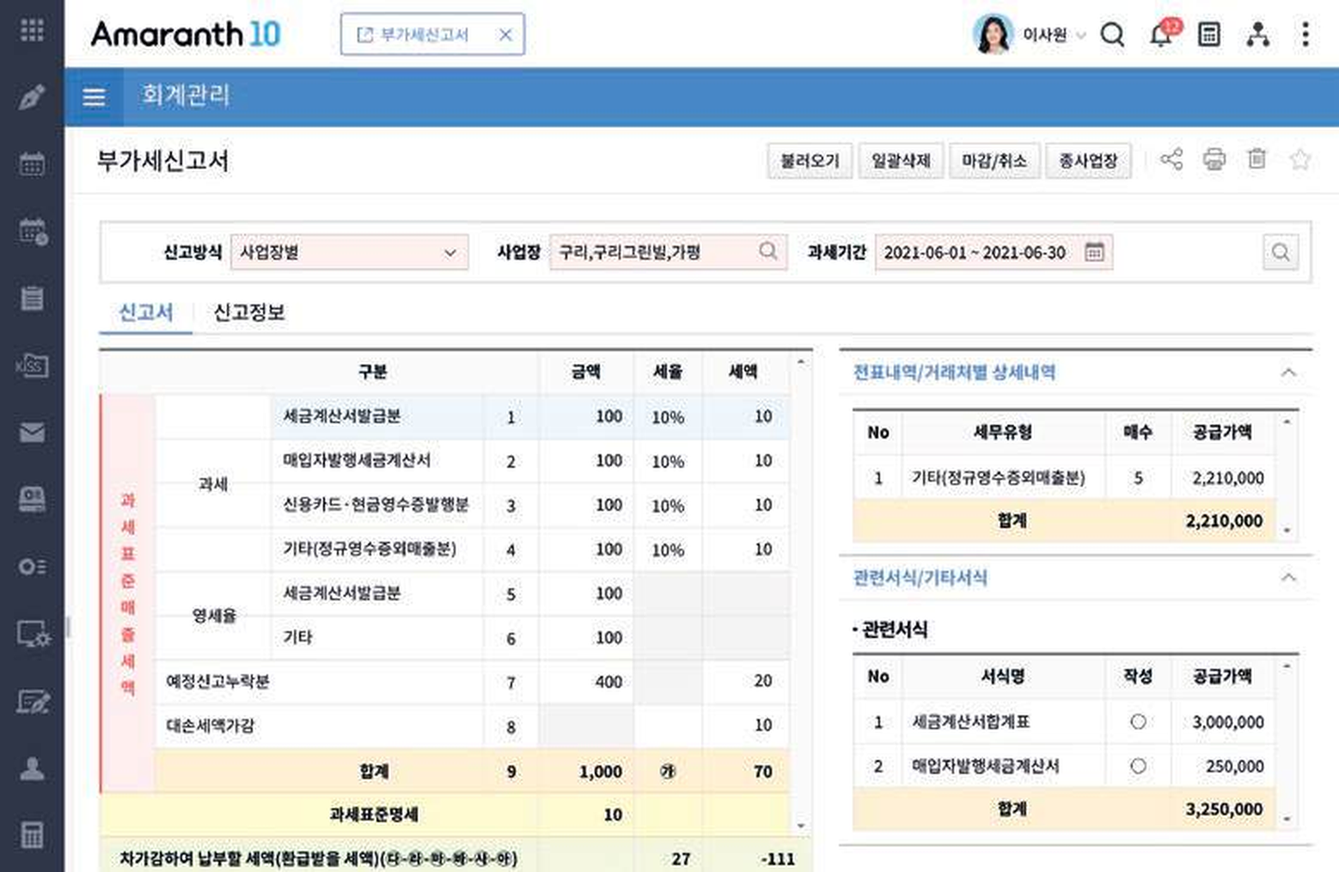
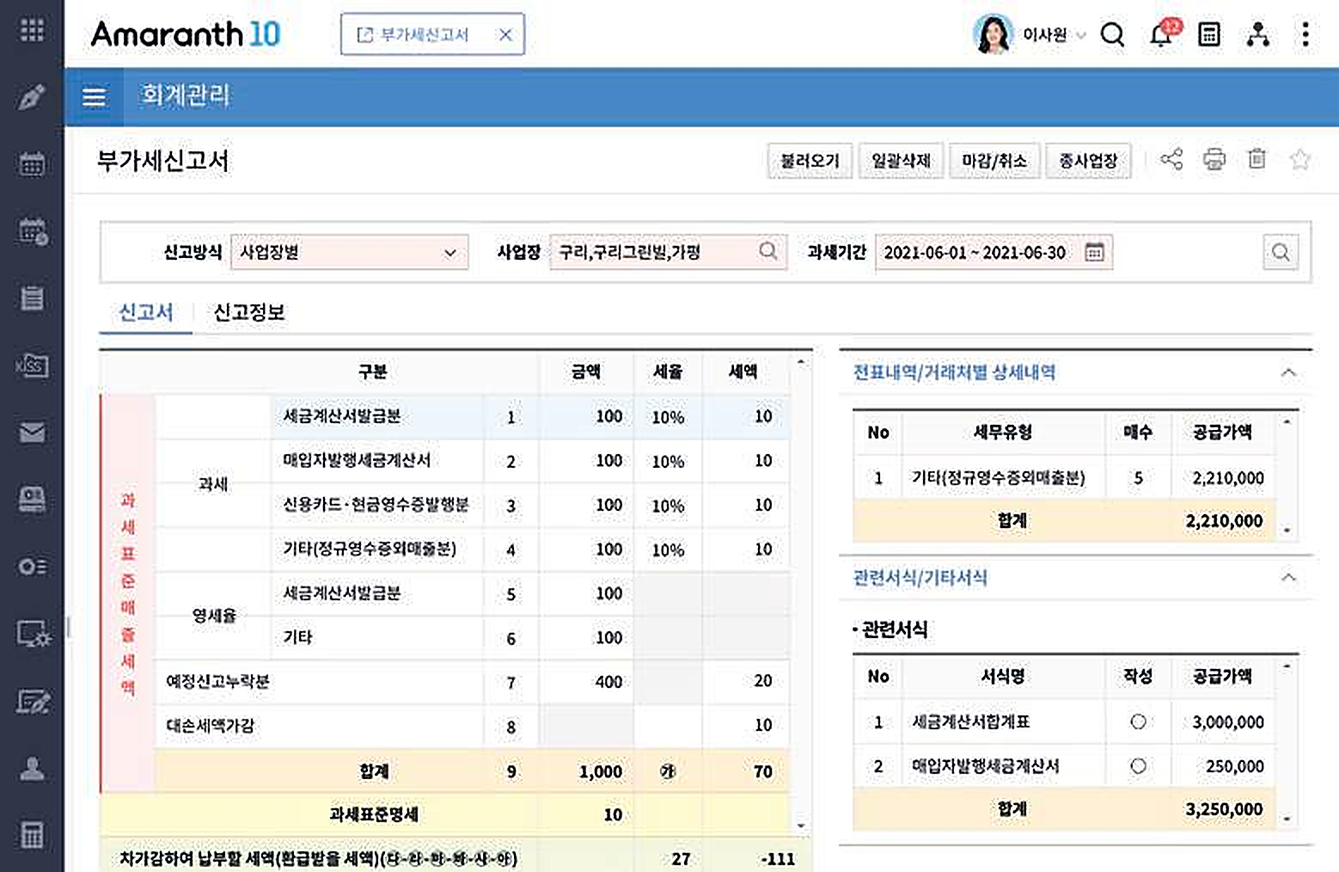
Sharpen the brochure product screens
Adds a light unsharp mask after the 2x Lanczos enlargement and versions the image URLs
so browsers pick up the new files. Real-ESRGAN was tried and rejected because it
reshaped Korean glyphs.

Claude-Session: https://claude.ai/code/session_01SPawHb8dbXAtWqwsG92Z1g

diff --git a/subpages/product/nonprofit/intro.html b/subpages/product/nonprofit/intro.html
@@ -88,7 +88,7 @@
 						진행할 수 있습니다.
 					</p>
 				<div class="tag-row sb-area-tags" aria-label="회계관리 관련 키워드"><span class="tag">#지출결의</span><span class="tag">#결산</span><span class="tag">#부가가치세관리</span><span class="tag">#금융서비스연동(CMS)</span><span class="tag">#그룹재무제표</span><span class="tag">#자동전표처리</span><span class="tag">#반제처리</span><span class="tag">#자금수지계획</span><span class="tag">#법인세관리</span><span class="tag">#자금일보</span></div></div>
-				<div class="img sb-feature-visual"><figure class="sb-unframed-screen sb-clarity-restored" data-screen-presentation="unframed" style="--sb-screen-ratio:1.536789;--sb-preview-ratio:1.536789;--sb-preview-height:516px;--sb-preview-padding:0px" data-screen-content="complete" data-native-screen="source-041" data-native-review-id="70" data-quality-screen="brochure"><a class="sb-screen-zoom" href="../../../assets/subpages/brochure-screens/automatic-journals.png" aria-label="Amaranth 10 자동전표처리 실제 제품 화면 크게 보기"><img class="sb-flat-screen" loading="lazy" src="../../../assets/subpages/brochure-screens/automatic-journals.png" alt="Amaranth 10 자동전표처리 실제 제품 화면" width="1838" height="1196" data-quality-id="source-041"></a></figure></div>
+				<div class="img sb-feature-visual"><figure class="sb-unframed-screen sb-clarity-restored" data-screen-presentation="unframed" style="--sb-screen-ratio:1.536789;--sb-preview-ratio:1.536789;--sb-preview-height:516px;--sb-preview-padding:0px" data-screen-content="complete" data-native-screen="source-041" data-native-review-id="70" data-quality-screen="brochure"><a class="sb-screen-zoom" href="../../../assets/subpages/brochure-screens/automatic-journals.png?v=2" aria-label="Amaranth 10 자동전표처리 실제 제품 화면 크게 보기"><img class="sb-flat-screen" loading="lazy" src="../../../assets/subpages/brochure-screens/automatic-journals.png?v=2" alt="Amaranth 10 자동전표처리 실제 제품 화면" width="1838" height="1196" data-quality-id="source-041"></a></figure></div>
 			</div>
 			<div class="hr02 sb-feature sb-design-row sb-centered-feature sb-zigzag-feature" data-layout="visual-left" data-screen-layout="visual-left">
 				<div class="cont_txt sb-feature-copy">
@@ -509,7 +509,7 @@
                     </p>
                     <div class="tag-row sb-area-tags" aria-label="자동전표처리 관련 키워드"><span class="tag">#자동전표처리</span></div><a href="https://youtu.be/8vVOLh3XUzg?si=iY8KAsuRsYNz-_Nw" class="youtb_btn cta sb-product-cta" data-fancybox="" target="_blank" rel="noopener noreferrer">영상으로 확인하기 </a>
                 </div>
-                <div class="img sb-feature-visual"><figure class="sb-unframed-screen sb-clarity-restored" data-screen-presentation="unframed" style="--sb-screen-ratio:1.536789;--sb-preview-ratio:1.536789;--sb-preview-height:516px;--sb-preview-padding:0px" data-screen-content="complete" data-native-screen="source-041" data-native-review-id="86" data-quality-screen="brochure"><a class="sb-screen-zoom" href="../../../assets/subpages/brochure-screens/automatic-journals.png" aria-label="Amaranth 10 자동전표처리 실제 제품 화면 크게 보기"><img class="sb-flat-screen" loading="lazy" src="../../../assets/subpages/brochure-screens/automatic-journals.png" alt="Amaranth 10 자동전표처리 실제 제품 화면" width="1838" height="1196" data-quality-id="source-041"></a></figure></div>
+                <div class="img sb-feature-visual"><figure class="sb-unframed-screen sb-clarity-restored" data-screen-presentation="unframed" style="--sb-screen-ratio:1.536789;--sb-preview-ratio:1.536789;--sb-preview-height:516px;--sb-preview-padding:0px" data-screen-content="complete" data-native-screen="source-041" data-native-review-id="86" data-quality-screen="brochure"><a class="sb-screen-zoom" href="../../../assets/subpages/brochure-screens/automatic-journals.png?v=2" aria-label="Amaranth 10 자동전표처리 실제 제품 화면 크게 보기"><img class="sb-flat-screen" loading="lazy" src="../../../assets/subpages/brochure-screens/automatic-journals.png?v=2" alt="Amaranth 10 자동전표처리 실제 제품 화면" width="1838" height="1196" data-quality-id="source-041"></a></figure></div>
             </div>
             <div class="overview02 sb-feature sb-design-row sb-centered-feature sb-zigzag-feature" data-layout="visual-left" data-screen-layout="visual-left">
                 <div class="cont_txt sb-feature-copy">
@@ -591,7 +591,7 @@
                     </p>
                     <div class="tag-row sb-area-tags" aria-label="자금관리 관련 키워드"><span class="tag">#자금수지계획</span><span class="tag">#자금일보</span></div><a href="https://youtu.be/lMcinptekAo?si=e_etyYmCkUZ8QCJ4" class="youtb_btn cta sb-product-cta" data-fancybox="" target="_blank" rel="noopener noreferrer">영상으로 확인하기 </a>
                 </div>
-                <div class="img sb-feature-visual"><figure class="sb-unframed-screen" data-screen-presentation="unframed" style="--sb-screen-ratio:1.535865;--sb-preview-ratio:1.535865;--sb-preview-height:516px;--sb-preview-padding:0px" data-screen-content="complete" data-native-screen="source-076" data-native-review-id="91" data-quality-screen="brochure"><a class="sb-screen-zoom" href="../../../assets/subpages/brochure-screens/funds.png" aria-label="Amaranth 10 자금관리 실제 제품 화면 크게 보기"><img class="sb-flat-screen" loading="lazy" src="../../../assets/subpages/brochure-screens/funds.png" alt="Amaranth 10 자금관리 실제 제품 화면" width="1456" height="948" data-quality-id="source-076"></a></figure></div>
+                <div class="img sb-feature-visual"><figure class="sb-unframed-screen" data-screen-presentation="unframed" style="--sb-screen-ratio:1.535865;--sb-preview-ratio:1.535865;--sb-preview-height:516px;--sb-preview-padding:0px" data-screen-content="complete" data-native-screen="source-076" data-native-review-id="91" data-quality-screen="brochure"><a class="sb-screen-zoom" href="../../../assets/subpages/brochure-screens/funds.png?v=2" aria-label="Amaranth 10 자금관리 실제 제품 화면 크게 보기"><img class="sb-flat-screen" loading="lazy" src="../../../assets/subpages/brochure-screens/funds.png?v=2" alt="Amaranth 10 자금관리 실제 제품 화면" width="1456" height="948" data-quality-id="source-076"></a></figure></div>
             </div>
             <div class="overview07 sb-feature sb-design-row sb-centered-feature sb-zigzag-feature" data-layout="visual-right" data-screen-layout="visual-right">
                 <div class="cont_txt sb-feature-copy">
@@ -624,7 +624,7 @@
                     </p>
                     <div class="tag-row sb-area-tags" aria-label="세무신고자동화 관련 키워드"><span class="tag">#부가가치세관리</span><span class="tag">#법인세관리</span></div><a href="https://youtu.be/KDGEZgJHkpw?si=p0U9GLuG2FRY7U79" class="youtb_btn cta sb-product-cta" data-fancybox="" target="_blank" rel="noopener noreferrer">영상으로 확인하기 </a>
                 </div>
-                <div class="img sb-feature-visual"><figure class="sb-unframed-screen" data-screen-presentation="unframed" style="--sb-screen-ratio:1.536489;--sb-preview-ratio:1.536489;--sb-preview-height:516px;--sb-preview-padding:0px" data-screen-content="complete" data-native-screen="source-079" data-native-review-id="93" data-quality-screen="brochure"><a class="sb-screen-zoom" href="../../../assets/subpages/brochure-screens/tax-filing.png" aria-label="Amaranth 10 세무신고자동화 제품 화면 크게 보기"><img class="sb-flat-screen" loading="lazy" src="../../../assets/subpages/brochure-screens/tax-filing.png" alt="Amaranth 10 세무신고자동화 제품 화면" width="1558" height="1014" data-quality-id="source-079"></a></figure></div>
+                <div class="img sb-feature-visual"><figure class="sb-unframed-screen" data-screen-presentation="unframed" style="--sb-screen-ratio:1.536489;--sb-preview-ratio:1.536489;--sb-preview-height:516px;--sb-preview-padding:0px" data-screen-content="complete" data-native-screen="source-079" data-native-review-id="93" data-quality-screen="brochure"><a class="sb-screen-zoom" href="../../../assets/subpages/brochure-screens/tax-filing.png?v=2" aria-label="Amaranth 10 세무신고자동화 제품 화면 크게 보기"><img class="sb-flat-screen" loading="lazy" src="../../../assets/subpages/brochure-screens/tax-filing.png?v=2" alt="Amaranth 10 세무신고자동화 제품 화면" width="1558" height="1014" data-quality-id="source-079"></a></figure></div>
             </div>
             <div class="overview009 sb-feature sb-design-row sb-centered-feature sb-zigzag-feature" data-layout="visual-right" data-screen-layout="visual-right">
                 <div class="cont_txt sb-feature-copy">
@@ -687,7 +687,7 @@
                     </p>
                     <a href="https://youtu.be/6J2EmAe2nEQ?si=Lg2hNhujlv5vkZ82" class="youtb_btn cta sb-product-cta" data-fancybox="" target="_blank" rel="noopener noreferrer">영상으로 확인하기 </a>
                 </div>
-                <div class="img sb-feature-visual"><figure class="sb-unframed-screen sb-clarity-restored" data-screen-presentation="unframed" style="--sb-screen-ratio:1.536415;--sb-preview-ratio:1.536415;--sb-preview-height:516px;--sb-preview-padding:0px" data-screen-content="complete" data-native-screen="source-084" data-native-review-id="97" data-quality-screen="brochure"><a class="sb-screen-zoom" href="../../../assets/subpages/brochure-screens/annual-leave.png" aria-label="Amaranth 10 연차관리 실제 제품 화면 크게 보기"><img class="sb-flat-screen" loading="lazy" src="../../../assets/subpages/brochure-screens/annual-leave.png" alt="Amaranth 10 연차관리 실제 제품 화면" width="2194" height="1428" data-quality-id="source-084"></a></figure></div>
+                <div class="img sb-feature-visual"><figure class="sb-unframed-screen sb-clarity-restored" data-screen-presentation="unframed" style="--sb-screen-ratio:1.536415;--sb-preview-ratio:1.536415;--sb-preview-height:516px;--sb-preview-padding:0px" data-screen-content="complete" data-native-screen="source-084" data-native-review-id="97" data-quality-screen="brochure"><a class="sb-screen-zoom" href="../../../assets/subpages/brochure-screens/annual-leave.png?v=2" aria-label="Amaranth 10 연차관리 실제 제품 화면 크게 보기"><img class="sb-flat-screen" loading="lazy" src="../../../assets/subpages/brochure-screens/annual-leave.png?v=2" alt="Amaranth 10 연차관리 실제 제품 화면" width="2194" height="1428" data-quality-id="source-084"></a></figure></div>
             </div>
             <div class="hr04 sb-feature sb-design-row sb-centered-feature sb-zigzag-feature" data-layout="visual-right" data-screen-layout="visual-left">
                 <div class="cont_txt sb-feature-copy">
@@ -703,7 +703,7 @@
                     </p>
                     <a href="https://youtu.be/XEPKYA6YHpk?si=0drrsWrU1AXwEn0H" class="youtb_btn cta sb-product-cta" data-fancybox="" target="_blank" rel="noopener noreferrer">영상으로 확인하기 </a>
                 </div>
-                <div class="img sb-feature-visual"><figure class="sb-unframed-screen sb-clarity-restored" data-screen-presentation="unframed" style="--sb-screen-ratio:1.535019;--sb-preview-ratio:1.535019;--sb-preview-height:516px;--sb-preview-padding:0px" data-screen-content="complete" data-native-screen="source-086" data-native-review-id="98" data-quality-screen="brochure"><a class="sb-screen-zoom" href="../../../assets/subpages/brochure-screens/payroll.png" aria-label="Amaranth 10 급여관리 실제 제품 화면 크게 보기"><img class="sb-flat-screen" loading="lazy" src="../../../assets/subpages/brochure-screens/payroll.png" alt="Amaranth 10 급여관리 실제 제품 화면" width="1578" height="1028" data-quality-id="source-086"></a></figure></div>
+                <div class="img sb-feature-visual"><figure class="sb-unframed-screen sb-clarity-restored" data-screen-presentation="unframed" style="--sb-screen-ratio:1.535019;--sb-preview-ratio:1.535019;--sb-preview-height:516px;--sb-preview-padding:0px" data-screen-content="complete" data-native-screen="source-086" data-native-review-id="98" data-quality-screen="brochure"><a class="sb-screen-zoom" href="../../../assets/subpages/brochure-screens/payroll.png?v=2" aria-label="Amaranth 10 급여관리 실제 제품 화면 크게 보기"><img class="sb-flat-screen" loading="lazy" src="../../../assets/subpages/brochure-screens/payroll.png?v=2" alt="Amaranth 10 급여관리 실제 제품 화면" width="1578" height="1028" data-quality-id="source-086"></a></figure></div>
             </div>
             <div class="hr05 sb-feature sb-design-row sb-centered-feature sb-zigzag-feature" data-layout="visual-left" data-screen-layout="visual-right">
                 <div class="cont_txt sb-feature-copy">

diff --git a/subpages/product/amaranth10/lm.html b/subpages/product/amaranth10/lm.html
@@ -108,7 +108,7 @@
                         연계해 효율적인 업무 처리 기능을 제공합니다.
                     </p>
                 </div>
-                <div class="img sb-feature-visual"><figure class="sb-unframed-screen" data-screen-presentation="unframed" style="--sb-screen-ratio:1.619469;--sb-preview-ratio:1.619469;--sb-preview-height:516px;--sb-preview-padding:0px" data-screen-content="complete" data-native-screen="source-103" data-native-review-id="121" data-quality-screen="brochure"><a class="sb-screen-zoom" href="../../../assets/subpages/brochure-screens/mps.png" aria-label="Amaranth 10 주생산계획등록(MPS) 실제 제품 화면 크게 보기"><img class="sb-flat-screen" loading="lazy" src="../../../assets/subpages/brochure-screens/mps.png" alt="Amaranth 10 주생산계획등록(MPS) 실제 제품 화면" width="1464" height="904" data-quality-id="source-103"></a></figure></div>
+                <div class="img sb-feature-visual"><figure class="sb-unframed-screen" data-screen-presentation="unframed" style="--sb-screen-ratio:1.619469;--sb-preview-ratio:1.619469;--sb-preview-height:516px;--sb-preview-padding:0px" data-screen-content="complete" data-native-screen="source-103" data-native-review-id="121" data-quality-screen="brochure"><a class="sb-screen-zoom" href="../../../assets/subpages/brochure-screens/mps.png?v=2" aria-label="Amaranth 10 주생산계획등록(MPS) 실제 제품 화면 크게 보기"><img class="sb-flat-screen" loading="lazy" src="../../../assets/subpages/brochure-screens/mps.png?v=2" alt="Amaranth 10 주생산계획등록(MPS) 실제 제품 화면" width="1464" height="904" data-quality-id="source-103"></a></figure></div>
             </div>
             <div class="lm07 sb-feature sb-design-row sb-centered-feature sb-zigzag-feature" data-layout="visual-right" data-screen-layout="visual-right">
                 <div class="cont_txt sb-feature-copy">
@@ -160,7 +160,7 @@
                         환율 환종 관리 기능을 제공합니다.
                     </p>
                 </div>
-                <div class="img sb-feature-visual"><figure class="sb-unframed-screen" data-screen-presentation="unframed" style="--sb-screen-ratio:1.622642;--sb-preview-ratio:1.622642;--sb-preview-height:516px;--sb-preview-padding:0px" data-screen-content="complete" data-native-screen="source-109" data-native-review-id="124" data-quality-screen="brochure"><a class="sb-screen-zoom" href="../../../assets/subpages/brochure-screens/domestic-overseas-sales.png" aria-label="Amaranth 10 국내/외 영업통합관리 실제 제품 화면 크게 보기"><img class="sb-flat-screen" loading="lazy" src="../../../assets/subpages/brochure-screens/domestic-overseas-sales.png" alt="Amaranth 10 국내/외 영업통합관리 실제 제품 화면" width="1548" height="954" data-quality-id="source-109"></a></figure></div>
+                <div class="img sb-feature-visual"><figure class="sb-unframed-screen" data-screen-presentation="unframed" style="--sb-screen-ratio:1.622642;--sb-preview-ratio:1.622642;--sb-preview-height:516px;--sb-preview-padding:0px" data-screen-content="complete" data-native-screen="source-109" data-native-review-id="124" data-quality-screen="brochure"><a class="sb-screen-zoom" href="../../../assets/subpages/brochure-screens/domestic-overseas-sales.png?v=2" aria-label="Amaranth 10 국내/외 영업통합관리 실제 제품 화면 크게 보기"><img class="sb-flat-screen" loading="lazy" src="../../../assets/subpages/brochure-screens/domestic-overseas-sales.png?v=2" alt="Amaranth 10 국내/외 영업통합관리 실제 제품 화면" width="1548" height="954" data-quality-id="source-109"></a></figure></div>
             </div>
         </div>
 	</div></main><footer><div class="footer-top"><div><a class="footer-brand" href="../../../index.html"><img src="../../../assets/ax-logo.png" alt="AX and More"><img src="../../../assets/logo.png" alt="DOUZONE 아이원소프트뱅크"></a><p>ERP · 그룹웨어 · 시스템 연동 · 맞춤 개발까지<br>비즈니스 환경에 최적화된 솔루션을 제공합니다.</p></div><div class="socials"><a href="https://cafe.naver.com/ionesoftbank" target="_blank" rel="noopener noreferrer"><img src="../../../assets/social-cafe.png" alt="카페"></a><a href="https://www.instagram.com/ione130501" target="_blank" rel="noopener noreferrer"><img src="../../../assets/social-instagram.png" alt="인스타그램"></a><a href="https://blog.naver.com/zhogksgjqm" target="_blank" rel="noopener noreferrer"><img src="../../../assets/social-blog.png" alt="블로그"></a><a href="http://pf.kakao.com/_xnFVzK" target="_blank" rel="noopener noreferrer"><img src="../../../assets/social-kakao.png" alt="카카오톡"></a><a href="https://youtube.com/@IONEsoftBK_official" target="_blank" rel="noopener noreferrer"><img src="../../../assets/social-youtube.png" alt="유튜브"></a></div></div><nav><button type="button" data-modal="privacy">개인정보 처리방침</button><button type="button" data-modal="terms">이용약관</button><a href="../../../subpages/company/location.html">오시는 길</a></nav><p>아이원소프트뱅크㈜ 대표 : 황명희 · 사업자등록번호 : 113-86-70956 · 통신판매신고번호 : 2017-서울구로-0617<br>주소 : 서울특별시 구로구 디지털로 285 에이스트윈타워 1차 405호<br>구매상담문의 : 1877-0256 · 고객센터 : 1877-1859 · iCUBE / G20 : 1877-0840 · 블루멤버십 : 1600-4208 · 테스트 계정 신청 : 070-4497-3388<br><br>COPYRIGHT © 2026 아이원소프트뱅크㈜. All rights reserved.</p></footer><section class="legal-modal" id="privacy-modal" aria-hidden="true" role="dialog" aria-modal="true" aria-labelledby="privacy-title"><div class="legal-dialog"><button class="modal-close" type="button" aria-label="닫기">×</button><h2 id="privacy-title">개인정보 처리방침</h2><div class="legal-scroll">문서를 불러오는 중입니다.</div></div></section><section class="legal-modal" id="terms-modal" aria-hidden="true" role="dialog" aria-modal="true" aria-labelledby="terms-title"><div class="legal-dialog"><button class="modal-close" type="button" aria-label="닫기">×</button><h2 id="terms-title">이용약관</h2><div class="legal-scroll">문서를 불러오는 중입니다.</div></div></section><dialog class="sb-preview-dialog"><p>공개 페이지 기반 미리보기입니다. 이 기능은 기존 사이트에서 이용할 수 있습니다.</p><a href="https://www.duzon119.co.kr/product/amaranth10/lm.asp">기존 페이지 열기 ↗</a><button type="button">닫기</button></dialog></div><script src="../../../app.js?v=20261023-2" defer=""></script></body></html>

diff --git a/subpages/product/amaranth10/overview.html b/subpages/product/amaranth10/overview.html
@@ -29,7 +29,7 @@
                     </p>
                     <div class="tag-row sb-area-tags" aria-label="자동전표처리 관련 키워드"><span class="tag">#자동전표처리</span></div><a href="https://youtu.be/8vVOLh3XUzg?si=iY8KAsuRsYNz-_Nw" class="youtb_btn cta sb-product-cta" data-fancybox="" target="_blank" rel="noopener noreferrer">영상으로 확인하기 </a>
                 </div>
-                <div class="img sb-feature-visual"><figure class="sb-unframed-screen sb-clarity-restored" data-screen-presentation="unframed" style="--sb-screen-ratio:1.536789;--sb-preview-ratio:1.536789;--sb-preview-height:516px;--sb-preview-padding:0px" data-screen-content="complete" data-native-screen="source-041" data-native-review-id="107" data-quality-screen="brochure"><a class="sb-screen-zoom" href="../../../assets/subpages/brochure-screens/automatic-journals.png" aria-label="Amaranth 10 자동전표처리 실제 제품 화면 크게 보기"><img class="sb-flat-screen" loading="lazy" src="../../../assets/subpages/brochure-screens/automatic-journals.png" alt="Amaranth 10 자동전표처리 실제 제품 화면" width="1838" height="1196" data-quality-id="source-041"></a></figure></div>
+                <div class="img sb-feature-visual"><figure class="sb-unframed-screen sb-clarity-restored" data-screen-presentation="unframed" style="--sb-screen-ratio:1.536789;--sb-preview-ratio:1.536789;--sb-preview-height:516px;--sb-preview-padding:0px" data-screen-content="complete" data-native-screen="source-041" data-native-review-id="107" data-quality-screen="brochure"><a class="sb-screen-zoom" href="../../../assets/subpages/brochure-screens/automatic-journals.png?v=2" aria-label="Amaranth 10 자동전표처리 실제 제품 화면 크게 보기"><img class="sb-flat-screen" loading="lazy" src="../../../assets/subpages/brochure-screens/automatic-journals.png?v=2" alt="Amaranth 10 자동전표처리 실제 제품 화면" width="1838" height="1196" data-quality-id="source-041"></a></figure></div>
             </div>
             <div class="overview02 sb-feature sb-design-row sb-centered-feature sb-zigzag-feature" data-layout="visual-left" data-screen-layout="visual-left">
                 <div class="cont_txt sb-feature-copy">
@@ -111,7 +111,7 @@
                     </p>
                     <div class="tag-row sb-area-tags" aria-label="자금관리 관련 키워드"><span class="tag">#자금수지계획</span><span class="tag">#자금일보</span></div><a href="https://youtu.be/lMcinptekAo?si=e_etyYmCkUZ8QCJ4" class="youtb_btn cta sb-product-cta" data-fancybox="" target="_blank" rel="noopener noreferrer">영상으로 확인하기 </a>
                 </div>
-                <div class="img sb-feature-visual"><figure class="sb-unframed-screen" data-screen-presentation="unframed" style="--sb-screen-ratio:1.535865;--sb-preview-ratio:1.535865;--sb-preview-height:516px;--sb-preview-padding:0px" data-screen-content="complete" data-native-screen="source-076" data-native-review-id="112" data-quality-screen="brochure"><a class="sb-screen-zoom" href="../../../assets/subpages/brochure-screens/funds.png" aria-label="Amaranth 10 자금관리 실제 제품 화면 크게 보기"><img class="sb-flat-screen" loading="lazy" src="../../../assets/subpages/brochure-screens/funds.png" alt="Amaranth 10 자금관리 실제 제품 화면" width="1456" height="948" data-quality-id="source-076"></a></figure></div>
+                <div class="img sb-feature-visual"><figure class="sb-unframed-screen" data-screen-presentation="unframed" style="--sb-screen-ratio:1.535865;--sb-preview-ratio:1.535865;--sb-preview-height:516px;--sb-preview-padding:0px" data-screen-content="complete" data-native-screen="source-076" data-native-review-id="112" data-quality-screen="brochure"><a class="sb-screen-zoom" href="../../../assets/subpages/brochure-screens/funds.png?v=2" aria-label="Amaranth 10 자금관리 실제 제품 화면 크게 보기"><img class="sb-flat-screen" loading="lazy" src="../../../assets/subpages/brochure-screens/funds.png?v=2" alt="Amaranth 10 자금관리 실제 제품 화면" width="1456" height="948" data-quality-id="source-076"></a></figure></div>
             </div>
             <div class="overview07 sb-feature sb-design-row sb-centered-feature sb-zigzag-feature" data-layout="visual-right" data-screen-layout="visual-right">
                 <div class="cont_txt sb-feature-copy">
@@ -144,7 +144,7 @@
                     </p>
                     <div class="tag-row sb-area-tags" aria-label="세무신고자동화 관련 키워드"><span class="tag">#부가가치세관리</span><span class="tag">#법인세관리</span></div><a href="https://youtu.be/KDGEZgJHkpw?si=p0U9GLuG2FRY7U79" class="youtb_btn cta sb-product-cta" data-fancybox="" target="_blank" rel="noopener noreferrer">영상으로 확인하기 </a>
                 </div>
-                <div class="img sb-feature-visual"><figure class="sb-unframed-screen" data-screen-presentation="unframed" style="--sb-screen-ratio:1.536489;--sb-preview-ratio:1.536489;--sb-preview-height:516px;--sb-preview-padding:0px" data-screen-content="complete" data-native-screen="source-079" data-native-review-id="114" data-quality-screen="brochure"><a class="sb-screen-zoom" href="../../../assets/subpages/brochure-screens/tax-filing.png" aria-label="Amaranth 10 세무신고자동화 제품 화면 크게 보기"><img class="sb-flat-screen" loading="lazy" src="../../../assets/subpages/brochure-screens/tax-filing.png" alt="Amaranth 10 세무신고자동화 제품 화면" width="1558" height="1014" data-quality-id="source-079"></a></figure></div>
+                <div class="img sb-feature-visual"><figure class="sb-unframed-screen" data-screen-presentation="unframed" style="--sb-screen-ratio:1.536489;--sb-preview-ratio:1.536489;--sb-preview-height:516px;--sb-preview-padding:0px" data-screen-content="complete" data-native-screen="source-079" data-native-review-id="114" data-quality-screen="brochure"><a class="sb-screen-zoom" href="../../../assets/subpages/brochure-screens/tax-filing.png?v=2" aria-label="Amaranth 10 세무신고자동화 제품 화면 크게 보기"><img class="sb-flat-screen" loading="lazy" src="../../../assets/subpages/brochure-screens/tax-filing.png?v=2" alt="Amaranth 10 세무신고자동화 제품 화면" width="1558" height="1014" data-quality-id="source-079"></a></figure></div>
             </div>
             <div class="overview009 sb-feature sb-design-row sb-centered-feature sb-zigzag-feature" data-layout="visual-right" data-screen-layout="visual-right">
                 <div class="cont_txt sb-feature-copy">

diff --git a/subpages/product/amaranth10/hr.html b/subpages/product/amaranth10/hr.html
@@ -58,7 +58,7 @@
                     </p>
                     <a href="https://youtu.be/6J2EmAe2nEQ?si=Lg2hNhujlv5vkZ82" class="youtb_btn cta sb-product-cta" data-fancybox="" target="_blank" rel="noopener noreferrer">영상으로 확인하기 </a>
                 </div>
-                <div class="img sb-feature-visual"><figure class="sb-unframed-screen sb-clarity-restored" data-screen-presentation="unframed" style="--sb-screen-ratio:1.536415;--sb-preview-ratio:1.536415;--sb-preview-height:516px;--sb-preview-padding:0px" data-screen-content="complete" data-native-screen="source-084" data-native-review-id="127" data-quality-screen="brochure"><a class="sb-screen-zoom" href="../../../assets/subpages/brochure-screens/annual-leave.png" aria-label="Amaranth 10 연차관리 실제 제품 화면 크게 보기"><img class="sb-flat-screen" loading="lazy" src="../../../assets/subpages/brochure-screens/annual-leave.png" alt="Amaranth 10 연차관리 실제 제품 화면" width="2194" height="1428" data-quality-id="source-084"></a></figure></div>
+                <div class="img sb-feature-visual"><figure class="sb-unframed-screen sb-clarity-restored" data-screen-presentation="unframed" style="--sb-screen-ratio:1.536415;--sb-preview-ratio:1.536415;--sb-preview-height:516px;--sb-preview-padding:0px" data-screen-content="complete" data-native-screen="source-084" data-native-review-id="127" data-quality-screen="brochure"><a class="sb-screen-zoom" href="../../../assets/subpages/brochure-screens/annual-leave.png?v=2" aria-label="Amaranth 10 연차관리 실제 제품 화면 크게 보기"><img class="sb-flat-screen" loading="lazy" src="../../../assets/subpages/brochure-screens/annual-leave.png?v=2" alt="Amaranth 10 연차관리 실제 제품 화면" width="2194" height="1428" data-quality-id="source-084"></a></figure></div>
             </div>
             <div class="hr04 sb-feature sb-design-row sb-centered-feature sb-zigzag-feature" data-layout="visual-left" data-screen-layout="visual-left">
                 <div class="cont_txt sb-feature-copy">
@@ -74,7 +74,7 @@
                     </p>
                     <a href="https://youtu.be/XEPKYA6YHpk?si=0drrsWrU1AXwEn0H" class="youtb_btn cta sb-product-cta" data-fancybox="" target="_blank" rel="noopener noreferrer">영상으로 확인하기 </a>
                 </div>
-                <div class="img sb-feature-visual"><figure class="sb-unframed-screen sb-clarity-restored" data-screen-presentation="unframed" style="--sb-screen-ratio:1.535019;--sb-preview-ratio:1.535019;--sb-preview-height:516px;--sb-preview-padding:0px" data-screen-content="complete" data-native-screen="source-086" data-native-review-id="128" data-quality-screen="brochure"><a class="sb-screen-zoom" href="../../../assets/subpages/brochure-screens/payroll.png" aria-label="Amaranth 10 급여관리 실제 제품 화면 크게 보기"><img class="sb-flat-screen" loading="lazy" src="../../../assets/subpages/brochure-screens/payroll.png" alt="Amaranth 10 급여관리 실제 제품 화면" width="1578" height="1028" data-quality-id="source-086"></a></figure></div>
+                <div class="img sb-feature-visual"><figure class="sb-unframed-screen sb-clarity-restored" data-screen-presentation="unframed" style="--sb-screen-ratio:1.535019;--sb-preview-ratio:1.535019;--sb-preview-height:516px;--sb-preview-padding:0px" data-screen-content="complete" data-native-screen="source-086" data-native-review-id="128" data-quality-screen="brochure"><a class="sb-screen-zoom" href="../../../assets/subpages/brochure-screens/payroll.png?v=2" aria-label="Amaranth 10 급여관리 실제 제품 화면 크게 보기"><img class="sb-flat-screen" loading="lazy" src="../../../assets/subpages/brochure-screens/payroll.png?v=2" alt="Amaranth 10 급여관리 실제 제품 화면" width="1578" height="1028" data-quality-id="source-086"></a></figure></div>
             </div>
             <div class="hr05 sb-feature sb-design-row sb-centered-feature sb-zigzag-feature" data-layout="visual-right" data-screen-layout="visual-right">
                 <div class="cont_txt sb-feature-copy">

diff --git a/tools/prepare-brochure-screens.py b/tools/prepare-brochure-screens.py
@@ -2,11 +2,12 @@
 
 The brochure embeds the original captures with correct, legible text, so they replace the
 clarity-restored screens whose text came out garbled. Sources were pulled with
-`pdfimages -png` (pages 18-22); here they are only enlarged 2x with Lanczos for high-DPI
-screens, never redrawn.
+`pdfimages -png` (pages 18-22); here they are enlarged 2x with Lanczos and given a light
+unsharp mask for high-DPI screens. No generative or learned upscaler is used: Real-ESRGAN was
+tried and reshaped Korean glyphs (기본급, 지방소득세), so the pixels are only resampled.
 """
 from pathlib import Path
-from PIL import Image
+from PIL import Image, ImageFilter
 
 ROOT = Path(__file__).resolve().parents[1]
 folder = ROOT / 'assets/subpages/brochure-screens'
@@ -14,5 +15,6 @@ for source in sorted((folder / 'sources').glob('*.png')):
     with Image.open(source) as image:
         image = image.convert('RGB')
         output = folder / source.name
-        image.resize((image.width * 2, image.height * 2), Image.LANCZOS).save(output, optimize=True)
+        enlarged = image.resize((image.width * 2, image.height * 2), Image.LANCZOS)
+        enlarged.filter(ImageFilter.UnsharpMask(radius=1.6, percent=110, threshold=2)).save(output, optimize=True)
         print(f'{output.name}: {image.width * 2}x{image.height * 2}')
